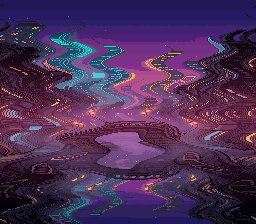
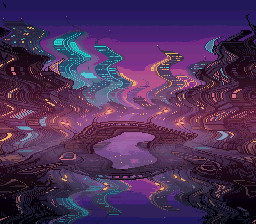
fix(examples): hdma_wave's table is generated by us, no byte of krom's remains
res/wavetable.bin was krom's HDMA table (his repository has no explicit
licence). devtools/art_assets/hdma_wave.py now writes a table of the same
layout and length (896 entries of [1][lo][hi] + terminator, seamless wrap
at 672) from three sines; make art-assets runs it, --check compares.
ATTRIBUTION, README, main.c and data.asm say so; the technique stays
credited to krom.

Baselines hdma_hdma_wave (frames 200 and 400) move because the ripple
itself is different (peak 11.5 px, a chop and a slow sway instead of
round(10*sin)); checked by eye on both captures: a readable water ripple,
rulers still straight. The README screenshot is the new frame 200. The
manifest asserts only wave_phase, unchanged.

diff --git a/examples/hdma/hdma_wave/main.c b/examples/hdma/hdma_wave/main.c
@@ -15,15 +15,16 @@
  * Press A and the same ripple comes from the `hdma` module instead:
  * hdmaWaveH() computes the sine table in RAM and hdmaWaveUpdate() animates
  * it, with the amplitude now a parameter (LEFT/RIGHT). The defaults
- * (amplitude 10, frequency 10: a 25.6-line period) sit close to krom's
- * table (round(10 * sin), a ~25.8-line quasi-period), so the switch shows
- * the helper reproducing what the hand-built table did. Press A again to go
- * back.
+ * (amplitude 10, frequency 10: a 25.6-line period) sit close to the
+ * hand-built table (a 25.85-line ripple of 7.5 px, plus a chop and a slow
+ * sway), so the switch shows the helper doing what the hand-built table did.
+ * Press A again to go back.
  *
  * C port of "SNES Wave HDMA Demo" by krom (Peter Lemon),
  * github.com/PeterLemon/SNES, PPU/HDMA/WaveHDMA — technique reproduced on
  * the snes/hdma.h API in the original demo configuration (BG Mode 3,
- * full-screen 256-color image). The picture is ours, no krom assets: the
+ * full-screen 256-color image). The picture and the table are ours, no krom
+ * assets (the table: devtools/art_assets/hdma_wave.py): the picture is the
  * city canal at night (res/canal.png), the one backgrounds/mode3 shows.
  *
  * @par SNES Concepts
@@ -43,8 +44,8 @@
  *
  * @par What to Observe
  * - At boot: the canal at night in tight sine ripples flowing UPWARD at one
- *   scanline per frame — krom's exact table (896 entries, verbatim) and
- *   cadence (wrap at 672); the white rulers every 64px stay straight
+ *   scanline per frame — our 896-entry table and krom's cadence
+ *   (wrap at 672); the white rulers every 64px stay straight
  * - Press A: the hdma module takes over (channel 6 instead of 0); the
  *   ripple looks nearly the same
  * - LEFT/RIGHT (module mode): amplitude from 2 to 24 pixels, in steps of 2
@@ -61,8 +62,8 @@
 #include <snes/input.h>
 
 /** @brief Wrap length of the start-pointer animation, in table entries.
- *  krom's exact value: his sine's quasi-period is ~25.8 lines (non-
- *  integer), so his seamless wrap needs 672 entries; the table holds
+ *  krom's value, kept: the ripple's period is 672/26 = 25.85 lines (non-
+ *  integer), so the seamless wrap needs 672 entries; the table holds
  *  224 more so any start phase has a full screen of valid lines. */
 #define WAVE_WRAP     672
 /** @brief Bytes per HDMA entry in 1REG_2X mode: count + 16-bit value */
@@ -93,11 +94,11 @@
 #include "res/canal.inc"   /* generated: canal_tiles[] + canal_tiles_1[] (two bank-sized parts), canal_map[], canal_pal[] */
 
 /**
- * @brief krom's exact HDMA table, in ROM (data.asm).
+ * @brief The HDMA table, in ROM (data.asm; generated, ours).
  *
- * 896 entries of [1][offset16] + terminator, extracted verbatim from
- * the original demo: entry values are round(10*sin) samples with a
- * quasi-period of ~25.8 lines. The table is never written: the
+ * 896 entries of [1][offset16] + terminator: a sum of three sines
+ * (25.85-line ripple, chop, slow sway), peak 11.5 px, written by
+ * devtools/art_assets/hdma_wave.py. The table is never written: the
  * animation only moves the start pointer (hdmaSetup reads the bank
  * from the far pointer, so the table can sit in any ROM bank).
  */

diff --git a/devtools/art_assets/hdma_wave.py b/devtools/art_assets/hdma_wave.py
@@ -1,0 +1,64 @@
+"""hdma/hdma_wave: the HDMA table of the hand-built ripple (res/wavetable.bin).
+
+Imported by build.py, and runnable alone: `python3 hdma_wave.py` writes the
+file, `--check` says whether the committed one is what it writes.
+
+The layout is what the example reads (main.c: ENTRY_BYTES, WAVE_WRAP):
+ENTRIES entries of [0x01][lo][hi] (one scanline, then a 16-bit BG1HOFS
+value, two's complement) and a 0x00 terminator. Line L of the frame reads
+entry phase+L, the phase going 0..WAVE_WRAP-1, so the table is a function
+of (entry mod WAVE_WRAP): ENTRIES = WAVE_WRAP + 224, one full screen past
+the wrap, and every component below has a whole number of cycles in
+WAVE_WRAP entries, which makes the wrap seamless.
+
+The formula is ours: a sum of three sines, rounded to whole pixels.
+
+  ripple   26 cycles / 672 entries  (period 25.85 lines)  amplitude 7.5 px
+  chop     52 cycles / 672 entries  (period 12.92 lines)  amplitude 1.5 px
+  sway      4 cycles / 672 entries  (period 168 lines)    amplitude 2.5 px
+
+The ripple is the water, the chop roughens its crests, the sway makes the
+whole picture breathe slowly; the peak is at most 11.5 px (the `hdma`
+module's wave, at the example's default amplitude, peaks at 10).
+"""
+from __future__ import annotations
+
+import argparse
+import math
+import struct
+import sys
+from pathlib import Path
+
+WAVE_WRAP = 672
+ENTRIES = WAVE_WRAP + 224            # 896
+# (cycles per WAVE_WRAP entries, amplitude in pixels, phase in radians)
+COMPONENTS = ((26, 7.5, 0.0), (52, 1.5, 1.1), (4, 2.5, 0.6))
+
+
+def sample(i: int) -> int:
+    i %= WAVE_WRAP
+    return round(sum(a * math.sin(2 * math.pi * c * i / WAVE_WRAP + p) for c, a, p in COMPONENTS))
+
+
+def build_hdma_wave() -> dict[str, bytes]:
+    table = b"".join(struct.pack("<Bh", 1, sample(i)) for i in range(ENTRIES))
+    return {"wavetable.bin": table + b"\x00"}
+
+
+def main() -> int:
+    ap = argparse.ArgumentParser(description=__doc__.split("\n\n")[0])
+    ap.add_argument("--check", action="store_true", help="compare with the committed file instead of writing it")
+    args = ap.parse_args()
+    path = Path(__file__).resolve().parents[2] / "examples" / "hdma" / "hdma_wave" / "res" / "wavetable.bin"
+    data = build_hdma_wave()["wavetable.bin"]
+    if args.check:
+        if not path.is_file() or path.read_bytes() != data:
+            print(f"  DIFFERS {path}")
+            return 1
+        return 0
+    path.write_bytes(data)
+    return 0
+
+
+if __name__ == "__main__":
+    sys.exit(main())

diff --git a/devtools/art_assets/build.py b/devtools/art_assets/build.py
@@ -136,6 +136,10 @@ windows/window_multi_hdma:
                       reflection in a canal), 8bpp; colour 0 is the tram's
                       wall, never in the picture
 
+hdma/hdma_wave (devtools/art_assets/hdma_wave.py):
+  res/wavetable.bin   the HDMA table of the hand-built ripple: 896 entries of
+                      [1][lo][hi] and a terminator, three sines of ours
+
 scrolling/mixed_scroll, the title screen:
   res/logo.png        the 256x224 logo on a transparent sky (as for the
                       HDMA examples), the fixed layer
@@ -221,6 +225,7 @@ from mode7 import indexed as mode7_indexed  # noqa: E402
 from breakout import build_breakout  # noqa: E402
 from blocks import build_blocks  # noqa: E402
 from rpg import build_rpg  # noqa: E402
+from hdma_wave import build_hdma_wave  # noqa: E402
 from racing import bikes, build_track  # noqa: E402  (and so is the Mode 7 city)
 
 ROOT = Path(__file__).resolve().parents[2]
@@ -259,6 +264,7 @@ PLATFORM_OBJECTS = ROOT / "examples" / "demos" / "platform_objects" / "res"
 LOGO = ROOT / "assets"
 GRADIENT_COLORS = ROOT / "examples" / "hdma" / "gradient_colors" / "res"
 HDMA_HELPERS = ROOT / "examples" / "hdma" / "hdma_helpers" / "res"
+HDMA_WAVE = ROOT / "examples" / "hdma" / "hdma_wave" / "res"
 MODE7 = ROOT / "examples" / "mode7"
 RACING = ROOT / "examples" / "mode7" / "mode7_racing" / "res"
 BREAKOUT = ROOT / "examples" / "games" / "breakout" / "res"
@@ -1913,6 +1919,7 @@ def main() -> int:
                         "bg1map.bin": arcade["bg1map"], "bg2map.bin": arcade["bg2map"],
                         "backpal.bin": arcade["backpal"]}),
             (RPG, town),
+            (HDMA_WAVE, build_hdma_wave()),
             (BLOCKS, {"tiles.png": png(well["tiles"]), "font2bpp.bin": well["font2bpp"]}),
             (RACING, {"track.png": png(race["track"]), "track_class.bin": race["classes"],
                       "lanes_xy.bin": race["lanes"][0], "lanes_heading.bin": race["lanes"][1],

diff --git a/examples/hdma/hdma_wave/README.md b/examples/hdma/hdma_wave/README.md
@@ -43,7 +43,7 @@ the start of each line from a table: give BG1's horizontal scroll (`BG1HOFS`,
 `$210D`) a sine, one value per line, and each line of the image shifts by a
 different amount.
 
-The table here is krom's, verbatim (`res/wavetable.bin`, 896 entries):
+The table here is ours (`res/wavetable.bin`, 896 entries; three sines written by `devtools/art_assets/hdma_wave.py`, the technique being krom's):
 
 ```
 [0x01] [lo] [hi]   one scanline, then write (lo, hi) to BG1HOFS
@@ -59,7 +59,7 @@ shape the 16-bit scroll registers expect (low byte, then high byte).
 
 ```c
 wave_phase++;
-if (wave_phase >= WAVE_WRAP)       /* 672: krom's seamless wrap */
+if (wave_phase >= WAVE_WRAP)       /* 672: the seamless wrap */
     wave_phase = 0;
 hdmaSetup(CH_HAND, HDMA_MODE_1REG_2X, HDMA_DEST_BG1HOFS,
           wavetable + wave_phase * ENTRY_BYTES);
@@ -84,7 +84,7 @@ hdmaWaveUpdate();                        /* once per frame */
 
 The module computes the sine table in RAM, double-buffers it and advances
 it each frame. Amplitude 10 at frequency 10 (a 25.6-line period) is close
-to krom's table (`round(10 * sin)`, a ~25.8-line quasi-period), so the
+to the hand-built table (a 25.85-line ripple of 7.5 px, plus a chop and a slow sway), so the
 ripple barely changes when you switch. What you gain is the parameter:
 LEFT/RIGHT call `hdmaWaveH` again with a new amplitude.
 
@@ -120,7 +120,7 @@ analysis on `luna frames` sequences of both ROMs):
 
 | Proof | Result |
 |---|---|
-| HDMA table | **byte-identical**: krom's 896 entries extracted verbatim (`res/wavetable.bin`) |
+| HDMA table | **our own**: a generated table in the layout and length of krom's demo (`res/wavetable.bin`), so the register-level behaviour is the demo's; the two rendering rows below were measured on krom's original table |
 | This ROM's rendering | displacement field == table prediction, **residual 0** over 1400 line-measurements |
 | This ROM's cadence | exactly one +3-byte A1T0 step per frame, at VBlank (register-level, `dma.channels[0].a_addr`) |
 | Reference's rendering | every frame pair fits the same table with **residual 0** |
@@ -176,7 +176,7 @@ analysis on `luna frames` sequences of both ROMs):
 |------|-------------|
 | `main.c` | Setup, the hand-built repoint loop, the switch to the `hdma` module |
 | `res/canal.png.toml` | the import settings of the Mode 3 image (`opensnes-tileset`, 8bpp); the 48 KB tileset comes out in two bank-sized parts, `canal_tiles` and `canal_tiles_1` |
-| `data.asm` | krom's wave table (`wavetable.bin`), hand-written |
+| `data.asm` | the wave table (`wavetable.bin`), hand-written |
 | `res/canal.png` | the city canal at night, 253 colours, the same picture as `backgrounds/mode3`; generated for OpenSNES, its haze added by hand, CC0 (`assets/neo-lumen/`) |
-| `res/wavetable.bin` | krom's 896-entry HDMA table, extracted verbatim |
+| `res/wavetable.bin` | the 896-entry HDMA table, generated by `devtools/art_assets/hdma_wave.py` |
 | `Makefile` | `LIB_MODULES` (no conversion rule: the settings file drives it) |

diff --git a/ATTRIBUTION.md b/ATTRIBUTION.md
@@ -224,10 +224,11 @@ Incompatible (do not use without isolation):
 - `res/water.bmp` — original work: procedurally generated water caustics
   (sum-of-sines field, 256-color indexed), created for this example.
   The HDMA technique it demonstrates is a C port of "SNES Wave HDMA Demo"
-  by krom (Peter Lemon), github.com/PeterLemon/SNES — code technique
-  credited, no krom assets used. `res/wavetable.bin` is krom's HDMA
-  table, extracted verbatim from the demo (data of the technique,
-  credited).
+  by krom (Peter Lemon), github.com/PeterLemon/SNES — technique credited,
+  no krom assets used. `res/wavetable.bin` is generated for OpenSNES by
+  `devtools/art_assets/hdma_wave.py` (a sum of three sines, original work,
+  CC0). It replaced krom's HDMA table, whose repository carries no
+  explicit licence; not one byte of it remains.
 
 ## examples/audio/soundboard
 
